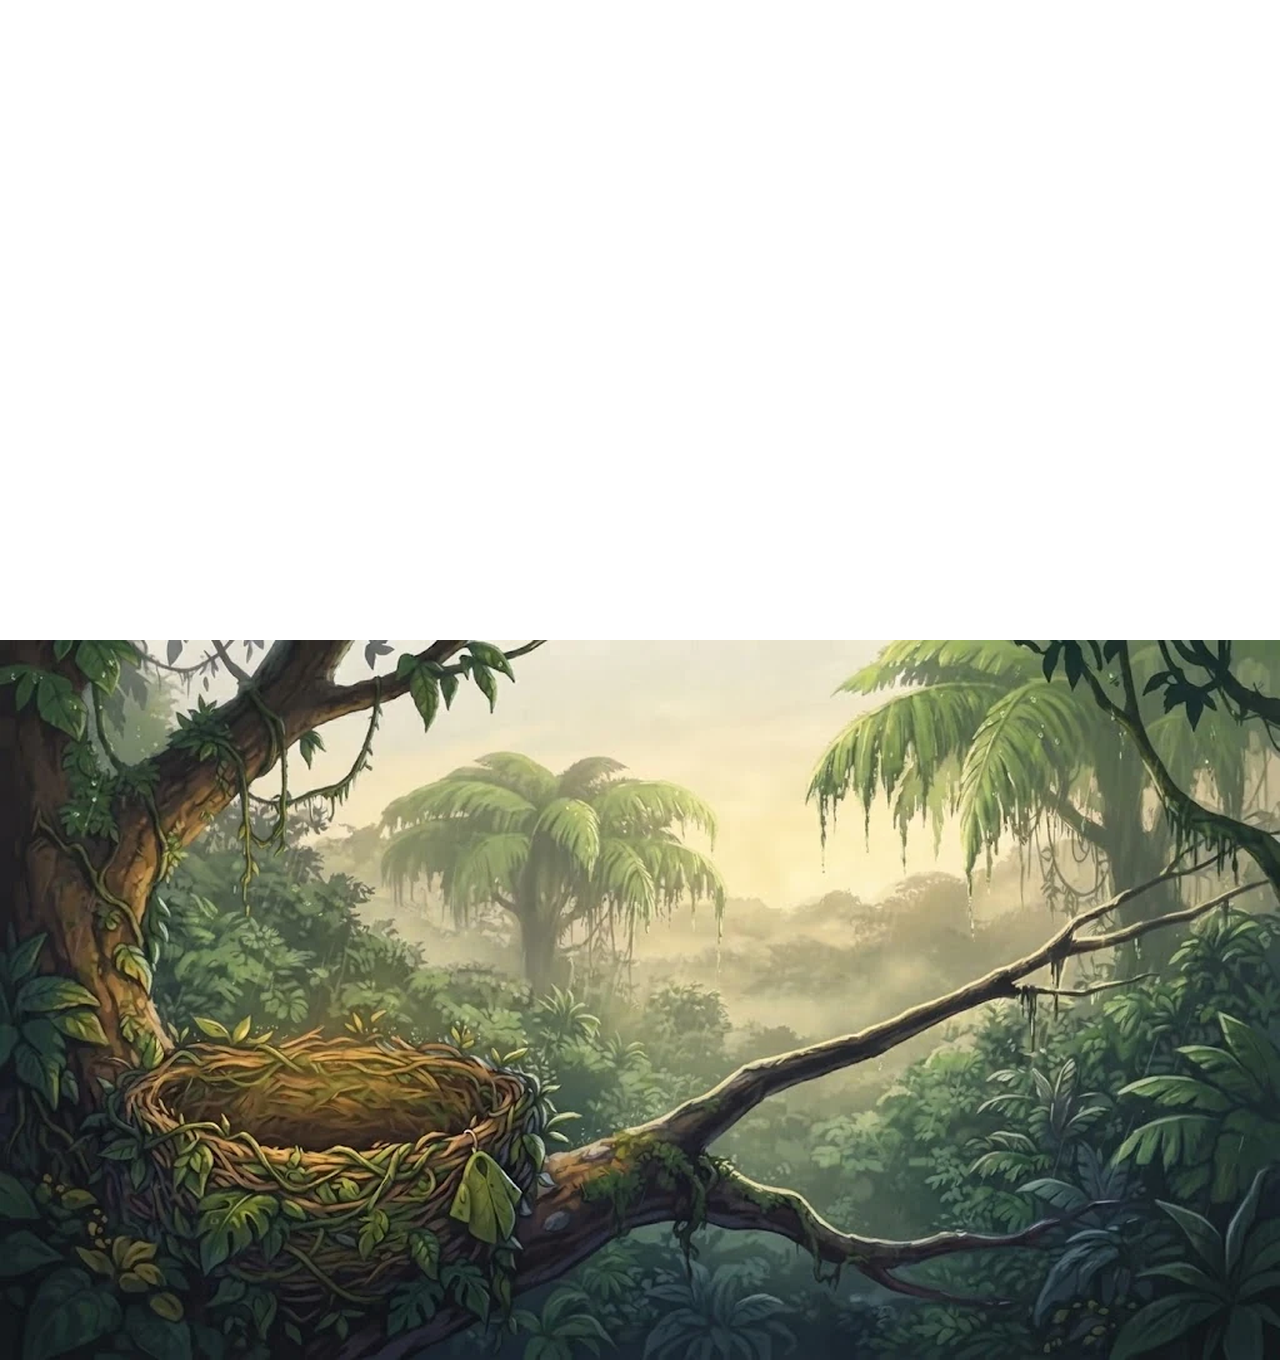
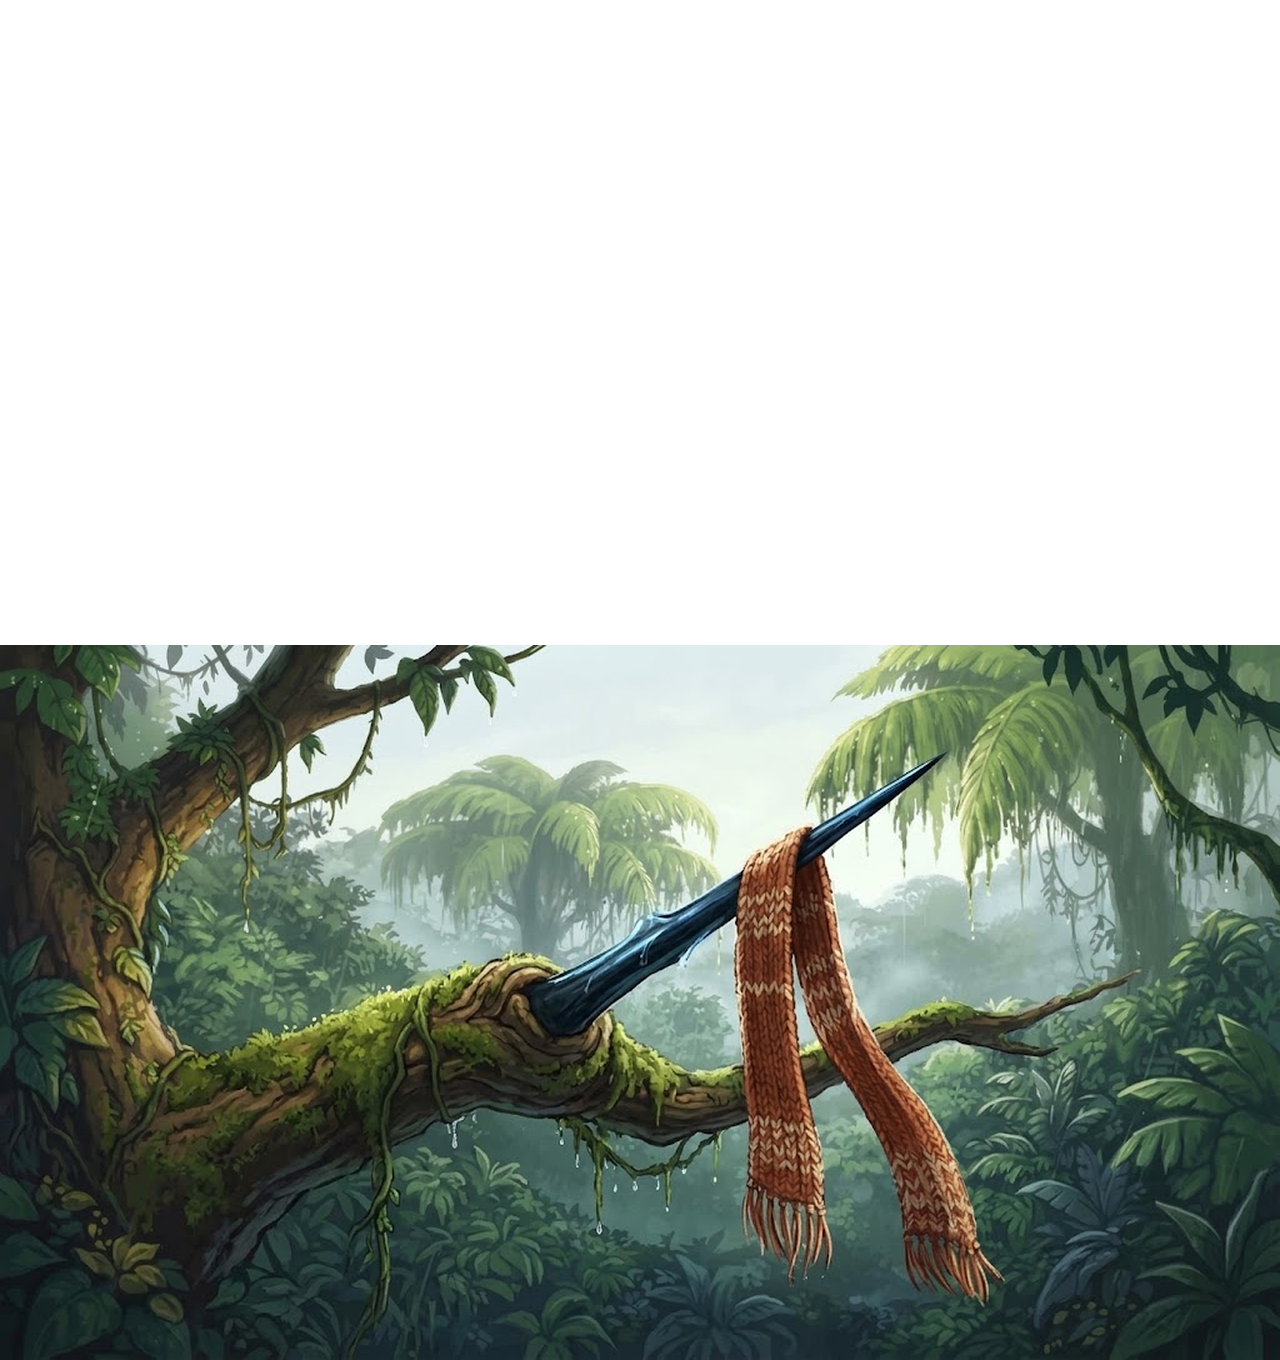
Story art: starts for Matt's two sequel plates (Gemini 23, 24) and the spec maker
Claude-Session: https://claude.ai/code/session_01FhBbYMSNFxnWxPbZJPdRan

Changed region(s): [[0.0, 0.4632, 1.0, 1.0], [0.9062, 0.8647, 0.9375, 0.8956]]

diff --git a/tools/art/storyart/make_spec.py b/tools/art/storyart/make_spec.py
@@ -732,6 +732,28 @@ def round9(commit):
             'repo': f'https://raw.githubusercontent.com/mshaffe1111/Sloths-Adventure-/{commit}/', 'keep': [x['name'] for x in it]}
 
 
+SEQ = {'storm-returns': ('the storm clouds and the rain go on up into a dark churning night sky lit by the lightning, the tops of the great '
+                         'trees and their mossy branches reach up into it', 'a sloth asleep on a mossy branch in a night storm, lightning'),
+       'nest-morning': ('the misty morning rainforest goes on upward: the tall palms and the great tree reach up into a pale grey-green sky '
+                        'with soft mist and hanging vines', 'a wet mossy branch in the misty morning rainforest with a black thorn and a scarf')}
+
+
+def round10(commit):
+    """Matt's two sequel plates (Gemini cards 23, 24, 1024 x 572): extended upward and painted at 2560 like every other plate"""
+    it = []
+    for k, (up, say) in SEQ.items():
+        for sd in (2, 6):
+            it.append({'name': f'pl-{k}-up{sd}', 'edit': True, 'start': f'canvas-{k}.png', 'seed': sd, 'w': 1280, 'h': 1360,
+                       'prompt': f'Fill the empty white top of this picture so the painting carries on upward: {up}. Keep the bottom of the picture exactly as it is. Same painted storybook style, no text.',
+                       'neg': 'white, blank, frame, border, text, people'})
+            it.append({'name': f'pl-{k}-{sd}', 'then': f'pl-{k}-up{sd}', 'prompt': f'slothadv style, painted storybook illustration, {say}, no text',
+                       'neg': 'text, letters, watermark, frame, border, photo, 3d render, blurry', 'strength': 0.26, 'seed': 5, 'w': 2560, 'h': 2720,
+                       'tile': [1280, 256], 'loras': [['style', 0.9]]})
+    base = f'https://raw.githubusercontent.com/mshaffe1111/Sloths-Adventure-/{commit}/tools/art/hfbatch/starts/storyart/'
+    return {'tag': 'r10', 'loras': {'style': LORAS['style']}, 'base': base, 'items': it, 'q': 90,
+            'repo': f'https://raw.githubusercontent.com/mshaffe1111/Sloths-Adventure-/{commit}/', 'keep': [x['name'] for x in it if '-up' not in x['name']]}
+
+
 def args(name, commit):
     raw = f'https://raw.githubusercontent.com/mshaffe1111/Sloths-Adventure-/{commit}/tools/art/storyart'
     get = (f'mkdir -p /out/storyart/jobs && curl -fsSL {raw}/storygpu.py -o /out/storyart/jobs/storygpu.py && '
